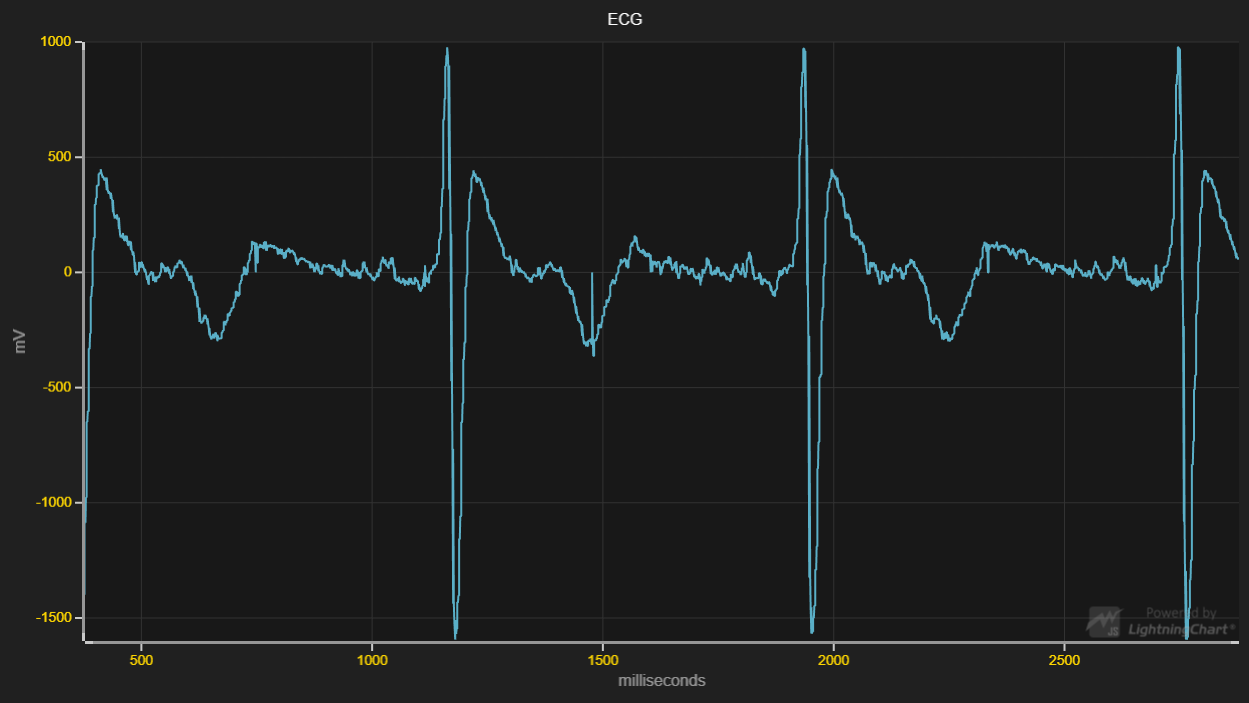
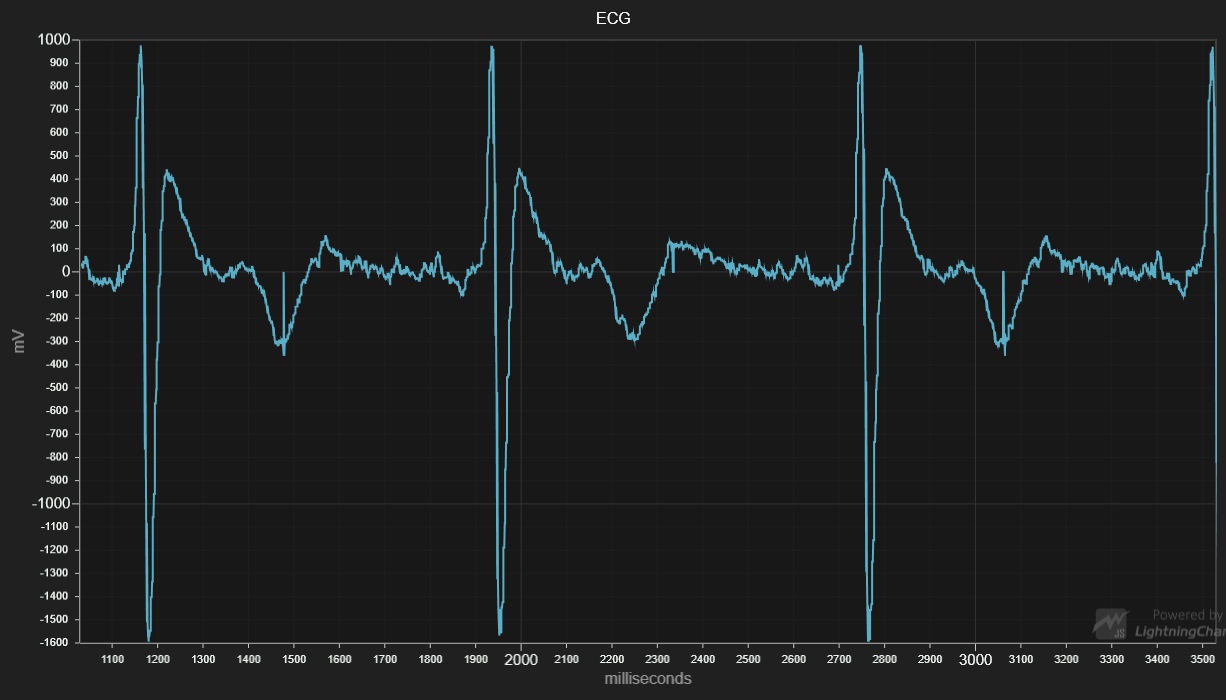
LCJS 2.0.0

diff --git a/src/index.js b/src/index.js
@@ -12,7 +12,8 @@ const {
     SolidLine,
     SolidFill,
     ColorHEX,
-    AutoCursorModes
+    AutoCursorModes,
+    Themes
 } = lcjs
 
 // Import data-generators from 'xydata'-library.
@@ -21,7 +22,9 @@ const {
 } = require('@arction/xydata')
 
 // Create a XY Chart.
-const chart = lightningChart().ChartXY({}).setTitle('ECG')
+const chart = lightningChart().ChartXY({
+    // theme: Themes.dark 
+}).setTitle('ECG')
 
 // Add line series to visualize the data received
 const series = chart.addLineSeries({ dataPattern: DataPatterns.horizontalProgressive })

diff --git a/README.md b/README.md
@@ -28,10 +28,10 @@ ECG stands for electrocardiogram which is a simple test that can be used to chec
 
 ## API Links
 
-* XY cartesian chart: [ChartXY]
-* Line series: [LineSeries]
-* Data patterns: [DataPatterns]
-* Progressive trace data generator: [ProgressiveTraceGenerator]
+* [XY cartesian chart]
+* [Line series]
+* [Data patterns]
+* [Progressive trace data generator]
 
 
 ## Support
@@ -55,8 +55,8 @@ Direct developer email support can be purchased through a [Support Plan][4] or b
 © Arction Ltd 2009-2020. All rights reserved.
 
 
-[ChartXY]: https://www.arction.com/lightningchart-js-api-documentation/v1.3.0/classes/chartxy.html
-[LineSeries]: https://www.arction.com/lightningchart-js-api-documentation/v1.3.0/classes/lineseries.html
-[DataPatterns]: https://www.arction.com/lightningchart-js-api-documentation/v1.3.0/globals.html#datapatterns
-[ProgressiveTraceGenerator]: https://arction.github.io/xydata/classes/progressivetracegenerator.html
+[XY cartesian chart]: https://www.arction.com/lightningchart-js-api-documentation/v2.0.0/classes/chartxy.html
+[Line series]: https://www.arction.com/lightningchart-js-api-documentation/v2.0.0/classes/lineseries.html
+[Data patterns]: https://www.arction.com/lightningchart-js-api-documentation/v2.0.0/globals.html#datapatterns
+[Progressive trace data generator]: https://arction.github.io/xydata/classes/progressivetracegenerator.html
 
